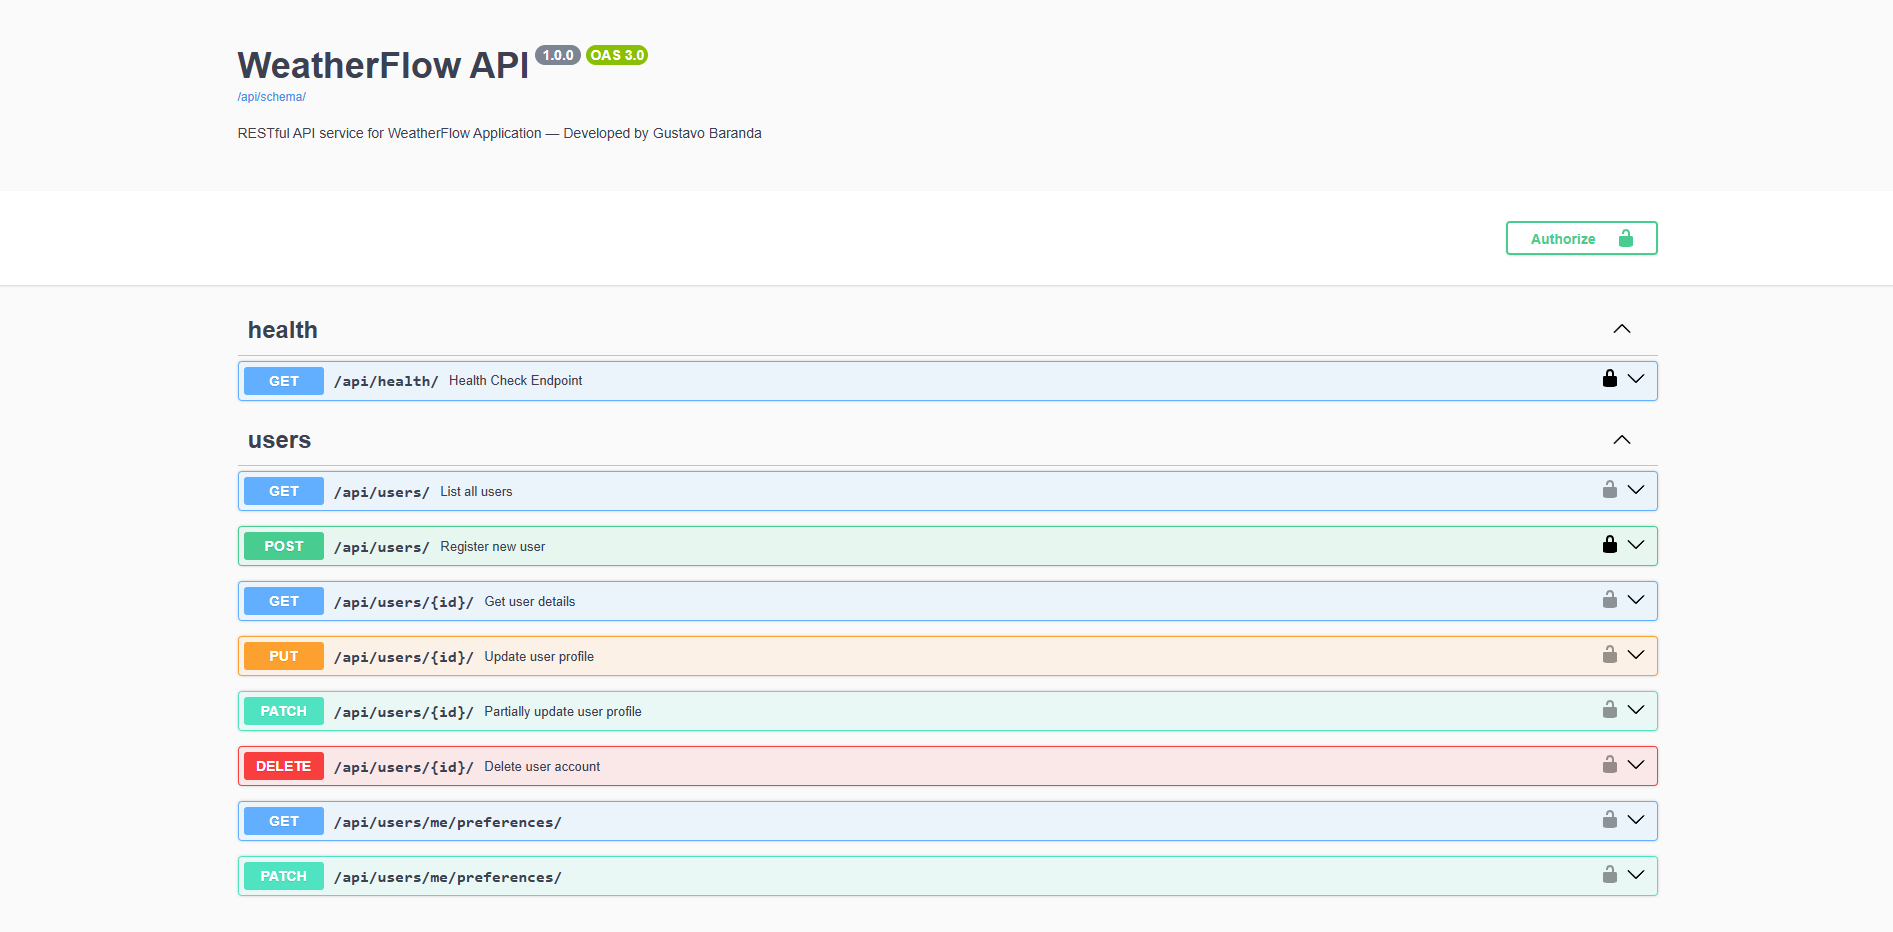
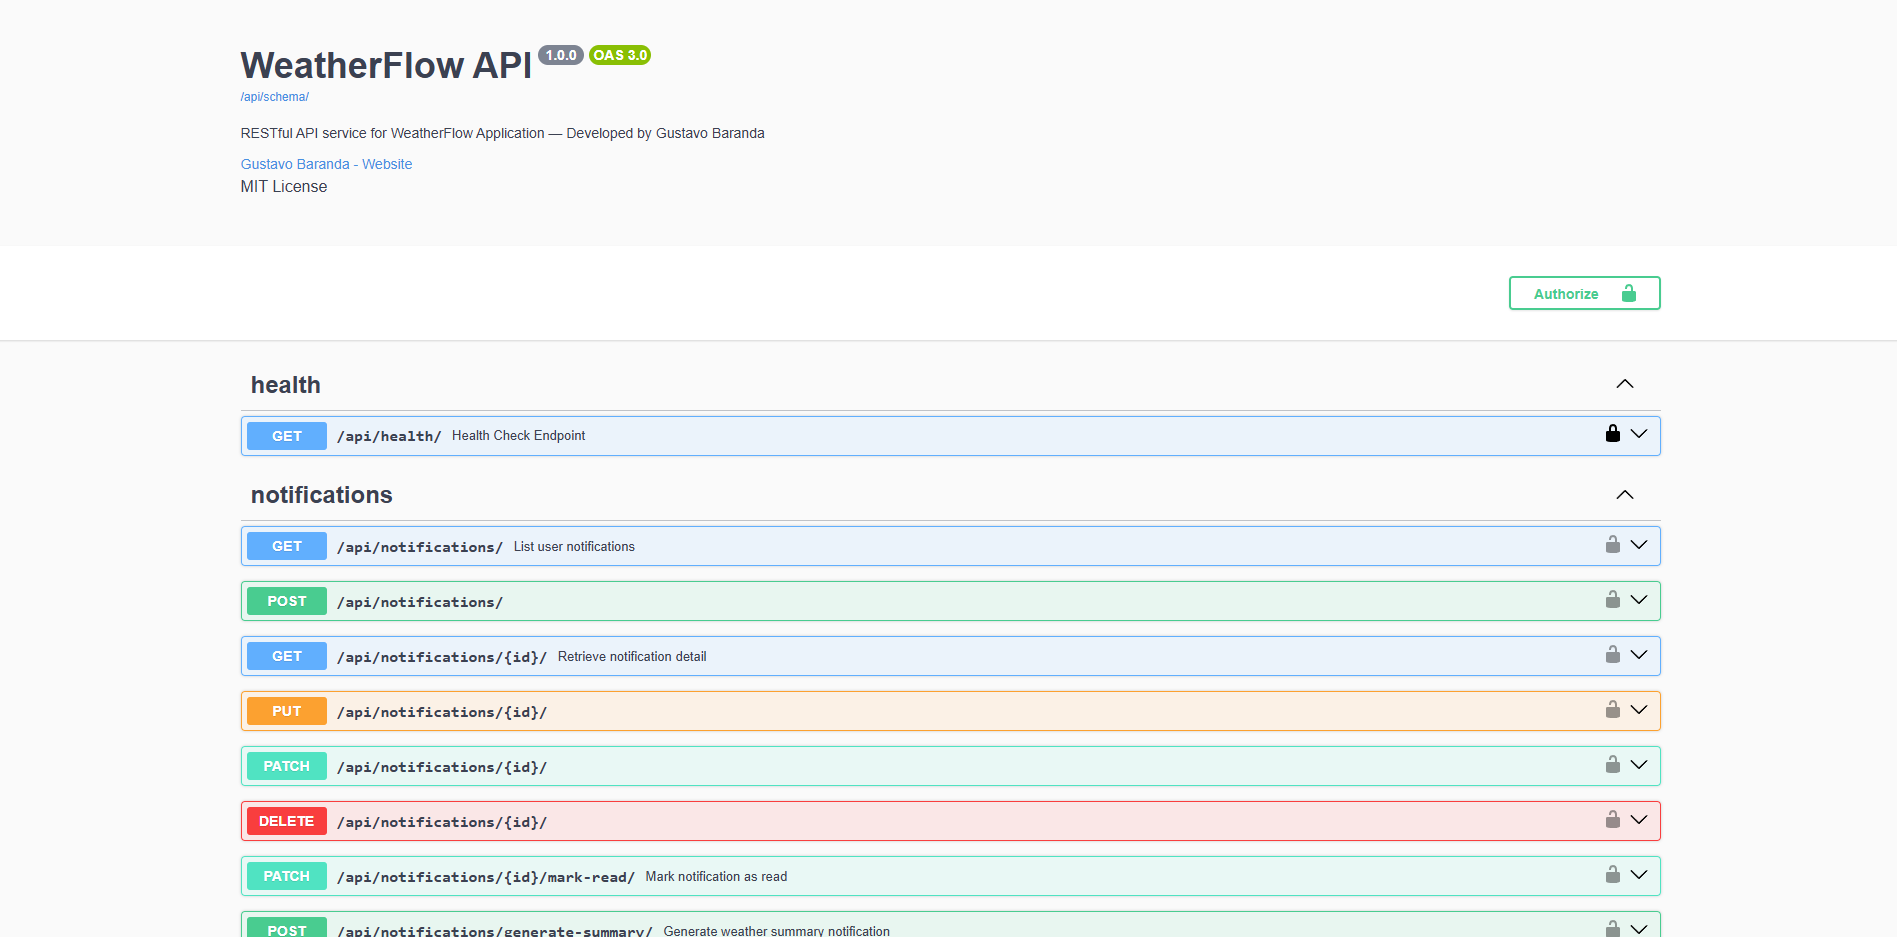
update projects case studies and technical details

Changed region(s): [[0.1247, 0.3423, 0.8727, 1.0], [0.1247, 0.0311, 0.4052, 0.2178], [0.7792, 0.2489, 0.8727, 0.3423]]

diff --git a/src/data/projectsData.ts b/src/data/projectsData.ts
@@ -42,56 +42,86 @@ export const PROJECTS: ProjectItem[] = [
   /* ───────────────── Full Stack ───────────────── */
   {
     id: "syspro-logistica",
-    title: "Plataforma de Logística & Depósitos Fiscales",
+    title: "Plataforma de Logística Portuaria & Depósitos Fiscales (DepofisWEB)",
     category: "full-stack",
     categoryLabel: "Full Stack",
     company: "SysPro Consulting",
     period: "2025 — Presente",
     dateSort: "9999-99",
     challenge:
-      "Operadores y depósitos fiscales necesitaban coordinar turnos, cargas y contenedores sin procesos manuales fragmentados, con trazabilidad en tiempo real y reportes con validez operativa.",
+      "Depósitos fiscales y terminales logísticas portuarias operaban con procesos manuales fragmentados para la coordinación de turnos de transporte, recepción de contenedores e inspecciones aduaneras. Se requería una plataforma distribuida en tiempo real que garantizara la trazabilidad punto a punto de la carga, validez legal y operativa en la documentación emitida y alta disponibilidad operativa.",
     solution:
-      "Como Full Stack Developer diseñé e implementé una arquitectura multimodular en Django 4.2 y SQL Server: portal público de turnos (Turnero) y plataforma interna (depofis.web) para recepción, entrega y trazabilidad de contenedores. Integré WebSockets (Channels), Celery & Redis, firmas/PDFs (ReportLab, PyMuPDF, pyHanko) y mapas con Leaflet.",
+      "Como Full Stack Developer, diseñé e implementé la arquitectura multimodular enterprise de la plataforma DepofisWEB en Django 4.2 y Microsoft SQL Server. Estructuré el sistema en tres módulos interconectados: Portal Público de Turnos (TURNERO_APP) para transportistas y choferes, Suite Operativa Interna (DEPO_2025_App) para recepción, inspección física y trazabilidad de contenedores, y Motor de Informes (INFORMES_APP). Integré comunicación en tiempo real con WebSockets (Django Channels), procesamiento asincrónico y cronjobs con Celery & Redis, firma digital criptográfica de PDFs con validez legal (pyHanko, ReportLab, PyMuPDF), notificaciones Web Push (VAPID), almacenamiento de imágenes de inspección en Object Storage (Huawei Cloud OBS) y geolocalización avanzada.",
     image: "/images/syspro.png",
-    tags: ["Python", "Django", "SQL Server", "Celery & Redis", "WebSockets", "Leaflet", "Tailwind CSS", "Bootstrap"],
+    tags: [
+      "Python 3.11+",
+      "Django 4.2",
+      "SQL Server (mssql)",
+      "Celery & Redis",
+      "Django Channels (WebSockets)",
+      "Firma Digital (pyHanko)",
+      "ReportLab & PyMuPDF",
+      "Web Push (VAPID)",
+      "Huawei Cloud OBS",
+      "GeoPy & Leaflet",
+    ],
     featured: true,
     githubUrl: null,
     demoUrl: null,
   },
   {
     id: "mhine-home",
-    title: "MHINE HOME — E-Commerce de Fragancias & Decoración",
+    title: "MHINE HOME — Plataforma E-Commerce & CMS de Decoración",
     category: "full-stack",
     categoryLabel: "Full Stack",
     company: "MHINE HOME",
-    period: "2025 - 2026",
+    period: "2025 — 2026",
     dateSort: "2025-04",
     challenge:
-      "La marca necesitaba un e-commerce performante para fragancias y decoración: catálogo con variantes, checkout confiable, admin en tiempo real e identidad visual de alto impacto.",
+      "La marca de fragancias y decoración artesanal requería un e-commerce de alta conversión y estética premium. Se necesitaba resolver la complejidad de catálogo con variantes dinámicas (fragancias, tamaños, stock), un sistema de checkout híbrido (Mercado Pago / WhatsApp), un panel de administración (CMS) con reordenamiento de secciones de portada en tiempo real y carga optimizada de activos multimedia sin penalizar la velocidad de carga.",
     solution:
-      "Construí la plataforma con Next.js 15 App Router y React 19: variantes de producto, carrito persistente, checkout WhatsApp/Mercado Pago, OAuth con NextAuth v5, CRUD admin con roles y reordenamiento del landing. Persistencia en PostgreSQL (Prisma/Neon), assets en Vercel Blob y mailings con Nodemailer.",
+      "Construí la plataforma full stack con Next.js 15 App Router, React 19 y Tailwind CSS v4. Diseñé el modelo de datos relacional con Prisma ORM sobre PostgreSQL (Neon Serverless), soportando variantes complejas de producto y categorías. Implementé autenticación híbrida con NextAuth v5 (Auth.js) y Google OAuth, carrito persistente con sincronización local y descuentos, gestor de medios en Vercel Blob Storage, sistema transaccional de correo con Nodemailer y un panel de administración con control de acceso por roles (RBAC) que incluye un maquetador en tiempo real para reordenar dinámicamente las secciones del landing. Animaciones fluidas con Framer Motion y despliegue continuo en Vercel.",
     image: "/images/mhine-home.png",
-    tags: ["Next.js 15", "React 19", "Prisma ORM", "PostgreSQL", "NextAuth v5", "Vercel Blob", "Tailwind CSS", "Framer Motion"],
+    tags: [
+      "Next.js 15 App Router",
+      "React 19",
+      "Prisma ORM",
+      "PostgreSQL (Neon)",
+      "NextAuth v5 (Auth.js)",
+      "Vercel Blob Storage",
+      "Tailwind CSS v4 & Framer Motion",
+      "Nodemailer",
+    ],
     featured: true,
     githubUrl: null,
     demoUrl: "https://mhine-home.vercel.app",
   },
   {
     id: "gusflow-kanban",
-    title: "GusFlow — Gestor de Tareas Kanban (PWA)",
+    title: "GusFlow APP — Plataforma de Gestión Kanban & PWA",
     category: "full-stack",
     categoryLabel: "Full Stack",
     company: "Proyecto Personal",
     period: "2025 — 2026",
     dateSort: "2025-11",
     challenge:
-      "Faltaba un tablero Kanban instalable como PWA, con adjuntos, auth social y flujo de onboarding por email sin depender de tools SaaS cerradas.",
+      "Los equipos de desarrollo y profesionales independientes requerían un gestor de tareas reactivo y personalizable en formato PWA, eliminando la dependencia de herramientas SaaS propietarias y garantizando persistencia relacional segura, soporte para adjuntos pesados, editor Markdown, autenticación social y verificación por email.",
     solution:
-      "Desarrollé la PWA con Next.js 14 App Router y React 18: columnas/prioridades, Markdown, Blob Storage, OAuth Google/GitHub, verificación con Resend y Vercel Postgres. Incluye manifest, service worker e instalación nativa.",
+      "Diseñé e implementé la plataforma web progresiva (PWA) instalable utilizando Next.js 14 App Router y React 18. Desarrollé el tablero Kanban dinámico con reordenamiento de columnas/tareas, prioridades, fechas de vencimiento y editor de notas con renderizado seguro Markdown (DOMPurify + Remark GFM). Implementé la capa de datos en Vercel Postgres (PostgreSQL), gestión de adjuntos multimedia en Vercel Blob Storage, sistema de autenticación híbrido (JWT + Google/GitHub OAuth), onboarding y recuperación transaccional con Resend API y micro-interacciones con Framer Motion y Tailwind CSS.",
     image: "/images/gusflow.png",
-    tags: ["PWA", "Next.js 14", "React 18", "Resend", "Vercel Postgres", "Vercel Blob", "Tailwind CSS", "OAuth & JWT", "Kanban"],
+    tags: [
+      "Next.js 14 App Router",
+      "React 18",
+      "Vercel Postgres",
+      "Vercel Blob",
+      "OAuth & JWT",
+      "Resend API",
+      "PWA Native",
+      "Tailwind CSS & Framer Motion",
+      "Markdown / DOMPurify",
+    ],
     featured: true,
-    githubUrl: null,
+    githubUrl:null,
     demoUrl: null,
   },
   {
@@ -103,11 +133,20 @@ export const PROJECTS: ProjectItem[] = [
     period: "2025",
     dateSort: "2025-04",
     challenge:
-      "La institución necesitaba digitalizar pacientes y estudios clínicos, con roles de acceso y un visor usable para imágenes médicas DICOM y reportes en PDF.",
+      "La institución médica requería reemplazar la gestión manual de legajos de pacientes y estudios clínicos por un sistema centralizado con control de acceso basado en roles (RBAC). El desafío clave exigía la integración de un visor web nativo para radiografías e imágenes médicas en formato DICOM con herramientas de diagnóstico (manipulación de contraste, rotación y zoom), garantizando la privacidad de datos de salud y la generación automatizada de informes médicos en PDF.",
     solution:
-      "Implementé la plataforma en Laravel 12 y MySQL con DataTables/AJAX, visor DICOM (zoom/rotación), gestión médico-paciente y control de roles (Admin, Colaborador, Paciente) más generación de reportes.",
+      "Diseñé e implementé la plataforma clínica integral con Laravel 12, PHP 8.2 y MySQL. Desarrollé el control de acceso multidominio con autenticación por roles (Administrador, Colaborador Médico y Paciente) y middleware de autorización. Integré un visor interactivo de archivos DICOM (DWV / Canvas) con soporte para manipulación en tiempo real (zoom, contraste/brillo, panning y rotación), tablas dinámicas de alto rendimiento con Yajra DataTables (paginación server-side y búsqueda en tiempo real), almacenamiento estructurado de legajos médicos y exportación automatizada de reportes con Tailwind CSS y Alpine.js.",
     image: "/images/fundacion_maldonado_preview.png",
-    tags: ["Laravel 12", "PHP", "MySQL", "Visor DICOM", "Yajra DataTables", "JavaScript", "Tailwind CSS"],
+    tags: [
+      "Laravel 12",
+      "PHP 8.2",
+      "MySQL",
+      "Visor DICOM (Canvas / DWV)",
+      "Yajra DataTables",
+      "Role-Based Access (RBAC)",
+      "Tailwind CSS & Alpine.js",
+      "PDF Reports",
+    ],
     featured: false,
     githubUrl: null,
     demoUrl: null,
@@ -116,36 +155,57 @@ export const PROJECTS: ProjectItem[] = [
   /* ───────────────── APIs y microservicios ───────────────── */
   {
     id: "weatherflow-api",
-    title: "WeatherFlow API — Servicio RESTful & OpenAPI 3",
+    title: "WeatherFlow API — Backend RESTful Enterprise & OpenAPI 3",
     category: "apis",
     categoryLabel: "APIs y Microservicios",
     company: "Proyecto Personal",
     period: "2026",
     dateSort: "2026-02",
     challenge:
-      "Se requería una API REST documentada y testeable para preferencias climáticas y agregación meteorológica, con convenciones product-ready.",
+      "Aplicaciones móviles y web requerían una solución backend RESTful enterprise, resiliente y de baja latencia para agregación meteorológica global en tiempo real, geocodificación de ciudades, conversión automática de unidades según preferencias del usuario, notificaciones in-app y seguridad stateless tokenizada.",
     solution:
-      "Diseñé el servicio con Django 5 y DRF: ViewSets/Serializers modularizados, OpenAPI 3 (Swagger UI y ReDoc), /api/health/, suite pytest-django y configuración por entorno con dotenv.",
+      "Diseñé e implementé la API con Django 5, Python 3.13 y Django REST Framework (DRF) estructurada en arquitectura limpia por capas (Services, Serializers, ViewSets). Integré autenticación stateless JWT (SimpleJWT) con perfil /api/users/me/, geocodificación dinámica con Open-Meteo API y caché en memoria (django.core.cache + DRF Throttling) logrando tiempos de respuesta de ~2ms por cache hit. Desarrollé un módulo nativo de notificaciones in-app con contador de no leídas (/api/notifications/), suite de 39 pruebas automatizadas con pytest-django, especificación OpenAPI 3 con Swagger UI y ReDoc (drf-spectacular), contenedorización multi-etapa en Docker y despliegue en Render Cloud con PostgreSQL y CI/CD en GitHub Actions.",
     image: "/images/weatherflow.png",
-    tags: ["Python 3.10+", "Django 5.0", "REST API", "OpenAPI 3 / Swagger", "pytest-django", "Django REST Framework"],
+    tags: [
+      "Python 3.13",
+      "Django 5.0",
+      "Django REST Framework",
+      "SimpleJWT",
+      "OpenAPI 3 / Swagger",
+      "drf-spectacular",
+      "pytest-django",
+      "Docker",
+      "PostgreSQL",
+      "Render Cloud",
+      "GitHub Actions",
+    ],
     featured: true,
     githubUrl: "https://github.com/GustavoBaranda/WeatherFlow-API",
-    demoUrl: null,
+    demoUrl: "https://weatherflow-api.onrender.com/api/schema/swagger-ui/",
   },
   {
     id: "solar-banco-etl",
-    title: "Plataforma de Riesgos & Liquidez (LCR / VaR)",
+    title: "Plataforma de Riesgos Financieros & ETL (LCR / VaR / Calce de Plazos)",
     category: "apis",
     categoryLabel: "APIs y Microservicios",
     company: "Solar Banco",
     period: "2024 — 2025",
     dateSort: "2024-12",
     challenge:
-      "El área de riesgos debía calcular LCR, VaR de liquidez y calce de plazos con datos heterogéneos (Excel, Oracle) y control de acceso corporativo.",
+      "El departamento de Gestión de Riesgos requería automatizar la medición de liquidez regulatoria (LCR), el cálculo de Value at Risk (VaR) y la brecha de calce de plazos. La operación dependía del procesamiento de volúmenes masivos de datos heterogéneos provenientes del Data Warehouse corporativo y planillas operativas, exigiendo sincronización sin margen de error, trazabilidad de auditoría estricta y autenticación corporativa.",
     solution:
-      "Desarrollé el backend en Django 5 y pipelines ETL en Python (Pandas, cx_Oracle, OpenPyXL) hacia Oracle DW, con SSO Active Directory (LDAP), auditorías y parámetros regulatorios dinámicos.",
+      "Diseñé e implementé la arquitectura backend en Django 5 con pipelines ETL automatizados en Python (Pandas, cx_Oracle, OpenPyXL) para la extracción, transformación y carga continua desde Oracle DW. Desarrollé el motor de cálculo para la brecha de liquidez por bandas de tiempo y moneda, modelos parametrizables de VaR y reglas de LCR según normativas financieras. Integré autenticación Single Sign-On (SSO) mediante Active Directory (LDAP), middleware de control de inactividad, log automatizado de auditoría de procesos/usuarios y dashboards interactivos con DataTables para visualización y exportación ejecutiva.",
     image: "/images/solar_banco.png",
-    tags: ["Python", "Django 5", "Oracle DW", "ETL", "LCR & VaR", "Pandas", "Active Directory"],
+    tags: [
+      "Python 3.10+",
+      "Django 5",
+      "Oracle DW",
+      "ETL & Pandas",
+      "LCR & VaR",
+      "Active Directory (LDAP)",
+      "OpenPyXL",
+      "SQL & Staged Analytics",
+    ],
     featured: true,
     githubUrl: null,
     demoUrl: null,
@@ -172,36 +232,54 @@ export const PROJECTS: ProjectItem[] = [
   },
   {
     id: "las-verde-ecommerce",
-    title: "E-Commerce & Catálogo Interactivo",
+    title: "Plataforma E-Commerce SPA & Catálogo — Las Verde",
     category: "opensource",
     categoryLabel: "Freelance & Open Source",
     company: "Las Verde",
     period: "2022 — 2023",
     dateSort: "2022-06",
     challenge:
-      "La fábrica de jugos necesitaba un catálogo digital actualizable en tiempo real y un canal simple de contacto comercial.",
+      "La empresa comercializadora de jugos 100% naturales necesitaba migrar su presencia digital a una SPA moderna con catálogo de productos en tiempo real, modales detallados de ingredientes/beneficios, canal omnicanal de atención directa y alta velocidad de respuesta en dispositivos móviles.",
     solution:
-      "Desarrollé un e-commerce SPA en React con Firebase Firestore, React Router v6, Sass modular y contacto por WhatsApp. Proyecto real Coderhouse (Top 10 del curso).",
+      "Diseñé e implementé la aplicación Single Page Application (SPA) con React 18, React Router v6 y Firebase Firestore para la persistencia y sincronización en tiempo real del catálogo. Desarrollé arquitectura de estilos modular con Sass (SCSS) y Normalize.css, custom hooks reutilizables (useForm) para validación interactiva de consultas con envío automatizado vía API, modales de vista detallada de producto (ModalDetail), botón flotante de atención directa por WhatsApp e integración de mapas. Implementé ScrollToTop helper para navegación fluida entre rutas y despliegue continuo en Vercel. Reconocido dentro del Top 10 de la camada en Coderhouse.",
     image: "/images/las_verde_preview.png",
-    tags: ["React.js", "Firebase", "React Router", "Sass", "JavaScript"],
+    tags: [
+      "React 18",
+      "Firebase Firestore",
+      "React Router v6",
+      "Sass (SCSS)",
+      "JavaScript ES6+",
+      "Custom Hooks",
+      "REST APIs",
+      "Vercel",
+    ],
     featured: false,
     githubUrl: "https://github.com/GustavoBaranda/Las-verde",
-    demoUrl: "https://lasverde.vercel.app/",
+    demoUrl: "https://las-verde.vercel.app/",
   },
   {
     id: "maternal-descubriendo",
-    title: "Sitio Web Institucional Jardín Maternal",
+    title: "Plataforma Web Institucional — Descubriendo Jardín",
     category: "opensource",
     categoryLabel: "Freelance & Open Source",
-    company: "Descubriendo Jardin Maternal",
+    company: "Descubriendo Jardín Maternal",
     period: "2022",
     dateSort: "2022-01",
     challenge:
-      "La institución requería una web clara y responsive para comunicar propuesta educativa, instalaciones y contacto con las familias.",
+      "La institución educativa requería digitalizar su presencia institucional y canal de atención a las familias, resolviendo la baja tasa de conversión de consultas presenciales mediante un sitio accesible, optimizado para tráfico móvil y centrado en la experiencia de usuario (UX/UI).",
     solution:
-      "Implementé el sitio con HTML5, CSS3/Bootstrap 5 y JS ES6+: sliders, FAQ, validación de formularios, Maps y WhatsApp. Proyecto real Coderhouse (Top 10 del curso).",
+      "Diseñé e implementé la plataforma web con HTML5 semántico, CSS3 modular (Flexbox y CSS Grid), Bootstrap 5 y JavaScript Vanilla (ES6+). Desarrollé componentes interactivos a medida (slider de imágenes nativo, navegación móvil fluida y sección de FAQ interactiva), formulario con validación client-side en tiempo real, integración con Google Maps API y canal de atención directa por WhatsApp. Optimicé la accesibilidad, el SEO técnico on-page (metaetiquetas dinámicas y verificación de dominio) y el despliegue continuo en Vercel. Distinguido dentro del Top 10 de la camada en Coderhouse.",
     image: "/images/descubriendo_jardin_preview.png",
-    tags: ["HTML5", "CSS3", "Bootstrap 5", "UX/UI", "JavaScript", "Responsive"],
+    tags: [
+      "JavaScript ES6+",
+      "HTML5 Semántico",
+      "CSS3 / Flexbox & Grid",
+      "Bootstrap 5",
+      "UX/UI Design",
+      "SEO On-Page",
+      "Google Maps API",
+      "Vercel",
+    ],
     featured: false,
     githubUrl: "https://github.com/GustavoBaranda/Descubrimiento-Jardin-Maternal",
     demoUrl: "https://jardinmaternaldescubriendo.vercel.app/",
